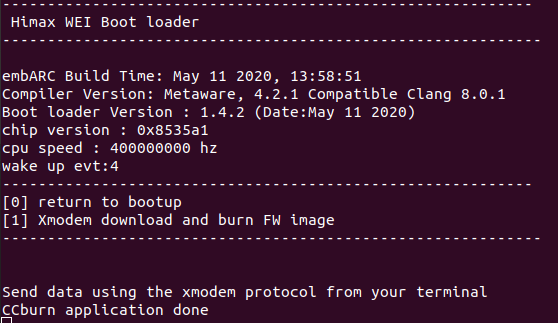
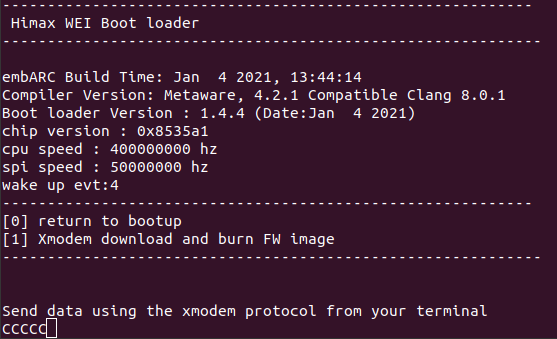
update user guide with how to upgrade bootloader

diff --git a/HIMAX_WE1_EVB_user_guide/README.md b/HIMAX_WE1_EVB_user_guide/README.md
@@ -13,9 +13,10 @@ HIMAX WE1 EVB now supports to program with Arduino, more details can be found [h
   - [System Requirement](#system-requirement)
     - [Serial terminal emulation application Setting](#serial-terminal-emulation-application-setting)
   - [Flash Image Update](#flash-image-update)
+    - [Check Bootloader Version](#check-bootloader-version)
+    - [Update Bootloader Version at Linux Environment](#update-bootloader-version-at-linux-environment)
     - [Flash Image Update at Windows Environment](#flash-image-update-at-windows-environment)
     - [Flash Image Update at Linux Environment](#flash-image-update-at-linux-environment)
-    - [Flash Tool Update at Linux Environment](#flash-tool-update-at-linux-environment)
   - [TensorFlow Lite for Microcontroller example](#tensorflow-lite-for-microcontroller-example)
     - [TFLM Example Hello World](#tflm-example-hello-world)
     - [TFLM Example Person Detection INT8](#tflm-example-person-detection-int8)
@@ -70,41 +71,95 @@ HIMAX WE1 EVB now supports to program with Arduino, more details can be found [h
 
 ## Flash Image Update
 
-Flash update is available via serial terminal at Windows and Linux environment.
+There are bootloader and application in the flash, application update is available via serial terminal at Windows and Linux environment.
   - [Update Flash image at Windows Environment](#flash-image-update-at-windows-environment)
   - [Update Flash image at Linux Environment](#flash-image-update-at-linux-environment)
 
-once the flash image is larger than 1MB, please consider using flash tool to update image
-   - [Update Flash image using Flash tool at Linux Environment](#flash-tool-update-at-linux-environment)
+You can see the generated application flash image name with suffix "_0.img", "_1.img" if image size is larger than 1MB. To support multiple images update, please [check](#check-bootloader-version) and [update](#update-bootloader-version-at-linux-environment) HIMAX WE1 EVB bootloader to v1.4.4 or above. Current bootloader update tool only support Linux environment.
 
+### Check Bootloader Version
+
+1. open terminal at your environment
+2. Reset HIMAX WE1 EVB by press reset button, then press any keyboard key (except `enter` key) in 0.3 sec. 
+3. check version number displayed at terminal
+4. multiple images update is not supported for bootloader version lower than v1.4.4
+
+    `v1.4.2` - don't support multiple images update  
+    ![old version v1.4.2](images/bootloader_v1_4_2.png)
+
+    `v1.4.4` - support multiple images update  
+    ![version v1.4.4, support multiple images update](images/bootloader_v1_4_4.png)
+
+### Update Bootloader Version at Linux Environment
+
+1. Please notice that following steps will erase all data (bootloader and application) in the HIMAX WE1 EVB flash.
+2. Download FT4222 linux driver [here](https://www.ftdichip.com/Support/SoftwareExamples/libft4222-linux-1.4.4.9.tgz).
+3. Type `install4222.sh` to install FT4222 driver.
+4. Assign access right to usb device, go to deirectory 
+
+    ```
+    cd /etc/udev/rules.d/
+    ```
+
+    create file with naming `99-ftdi.rules`, fill following data in file
+
+    ```
+    # FTDI's ft4222 USB-I2C Adapter
+    SUBSYSTEM=="usb", ATTRS{idVendor}=="0403", ATTRS{idProduct}=="601c", GROUP="plugdev", MODE="0666"
+    ```
+
+5. Download Flash tool [here](https://github.com/HimaxWiseEyePlus/bsp_tflu/releases/download/v1.0/FlashTool.zip) and unzip it.
+6. Download bootloader, current latest version is v1.4.4 [here](https://github.com/HimaxWiseEyePlus/bsp_tflu/releases/download/v1.0/himax_we1_bootloader_v1_4_4.bin). 
+7. Copy bootloader to FlashTool directory.
+8. Connect HIMAX WE1 EVB via USB cable.
+9. Make sure there is no serial terminal connect to HIMAX WE1 EVB
+10. Type following command to start update flash image
+   
+    ```
+    ./WE-I_ISP_Tool [bootloader name]
+    ```
+         
+11. For example, download bootloader  `himax_we1_bootloader_v1_4_4.bin` to flash
+
+![alt text](images/flash_tool_update_bootloader.png)
+
+12. After bootloader updated, you can double check the version by open terminal at your environment and press reset button on HIMAX WE1 EVB.
+
+![version v1.4.4, support multiple images update](images/bootloader_v1_4_4.png)
+
+13. You can then Download application to flash by following steps.[(Windows)](#flash-image-update-at-windows-environment) [(Linux)](#flash-image-update-at-linux-environment). 
+  
 ### Flash Image Update at Windows Environment
 
-1. Open TeraTerm and select `File -> New connection`, connect to HIMAX WE1 EVB.
-2. Reset HIMAX WE1 EVB by press reset button, then press any keyboard key (except `enter` key) in 0.3 sec. boot option will be displayed.
+1. Following steps update application in the flash.
+2. Open TeraTerm and select `File -> New connection`, connect to HIMAX WE1 EVB.
+3. Reset HIMAX WE1 EVB by press reset button, then press any keyboard key (except `enter` key) in 0.3 sec. boot option will be displayed.
+4. aa
 
 ![alt text](images/teraterm_boot_menu.png)
 
-3. Press button `1` and WE1 EVB will enter receiving mode after then. Select target flash image by `File->Transfer->XMODEM->Send`.
+4. Press button `1` and HIMAX WE1 EVB will enter receiving mode after then. Select target flash image by `File->Transfer->XMODEM->Send`. Please start from file name with suffix "_0.img" and then "_1.img" if multiple images. 
 
 ![alt text](images/teraterm_xmodem_downloading.png)
 
-4. Press reset button after "burn application done" message displayed.
+5. After "burn application done" message displayed, select next file for update or press reset button to restart.
 
 ### Flash Image Update at Linux Environment
 
-1. connect HIMAX WE1 EVB with micro usb cable, check device ID by typing  
+1. Following steps update application in the flash.
+2. connect HIMAX WE1 EVB with micro usb cable, check device ID by typing  
 
     ```
      ls /sys/bus/usb-serial/devices/ -ltrah
     ``` 
     
-2. Open minicom by typing
+3. Open minicom by typing
     
     ```
     sudo minicom -s
     ```   
   
-3. Select `Serial port Setup`, make sure `A - Serial Device` select correct device and `E - Bps/Par/Bits` set to correct value.   
+4. Select `Serial port Setup`, make sure `A - Serial Device` select correct device and `E - Bps/Par/Bits` set to correct value.   
 
 ![alt text](images/minicom_serial_port_setup.png)  
 
@@ -118,46 +173,17 @@ once the flash image is larger than 1MB, please consider using flash tool to upd
 
 ![alt text](images/minicom_upload_menu.png)
 
-8. Fill target flash image path and image name.
+8. Fill target flash image path and image name. Please start from file name with suffix "_0.img" and then "_1.img" if multiple images. 
 
-![alt text](images/minicom_upload_file_selection_image.png)
+![alt text](images/minicom_upload_multiple_files_0.png)
 
 9. Press any key after transfer done.
 
 ![alt text](images/minicom_upload_file_done.png)
 
-10. Press reset button after "burn application done" message displayed.
+10. After "burn application done" message displayed on th console, back to step 6 and select another flash image or press reset button to restart.
 
-### Flash Tool Update at Linux Environment
-
-1. Download FT4222 linux driver [here](https://www.ftdichip.com/Support/SoftwareExamples/libft4222-linux-1.4.4.9.tgz).
-2. Type `install4222.sh` to install FT4222 driver.
-3. Assign access right to usb device, go to deirectory 
-
-    ```
-    cd /etc/udev/rules.d/
-    ```
-
-    create file with naming `99-ftdi.rules`, fill following data in file
-
-    ```
-    # FTDI's ft4222 USB-I2C Adapter
-    SUBSYSTEM=="usb", ATTRS{idVendor}=="0403", ATTRS{idProduct}=="601c", GROUP="plugdev", MODE="0666"
-    ```
-
-4. Download Flash tool [here](https://github.com/HimaxWiseEyePlus/bsp_tflu/releases/download/v1.0/FlashTool.zip) and unzip it.
-5. Copy flash image to FlashTool directory.
-6. Connect HIMAX WE1 EVB via USB.
-7. Make sure there is no serial terminal connect to HIMAX WE1 EVB
-8. Type following command to start update flash image
-   
-    ```
-    ./WE-I_ISP_Tool [image_name.img]
-    ```
-         
-9. For example, download tflm example flash image `person_detection_int8.img` to flash
-
-![alt text](images/FlashTool_update_image.png)
+![alt text](images/minicom_burn_file_done.png)    
 
 
 ## TensorFlow Lite for Microcontroller example 
